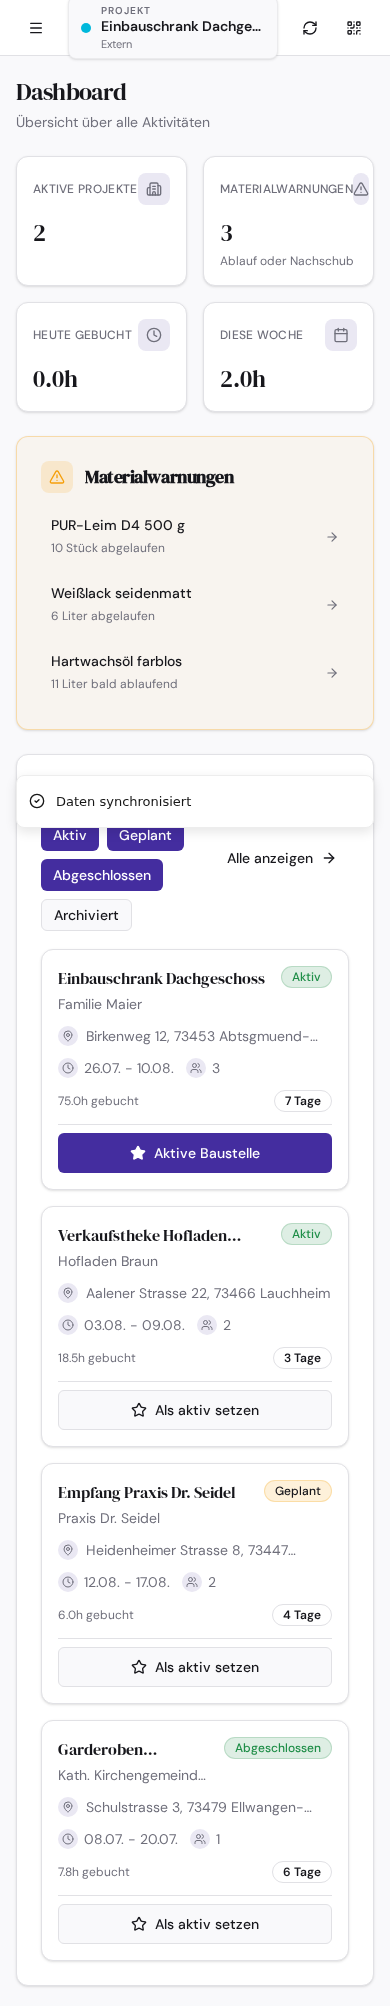
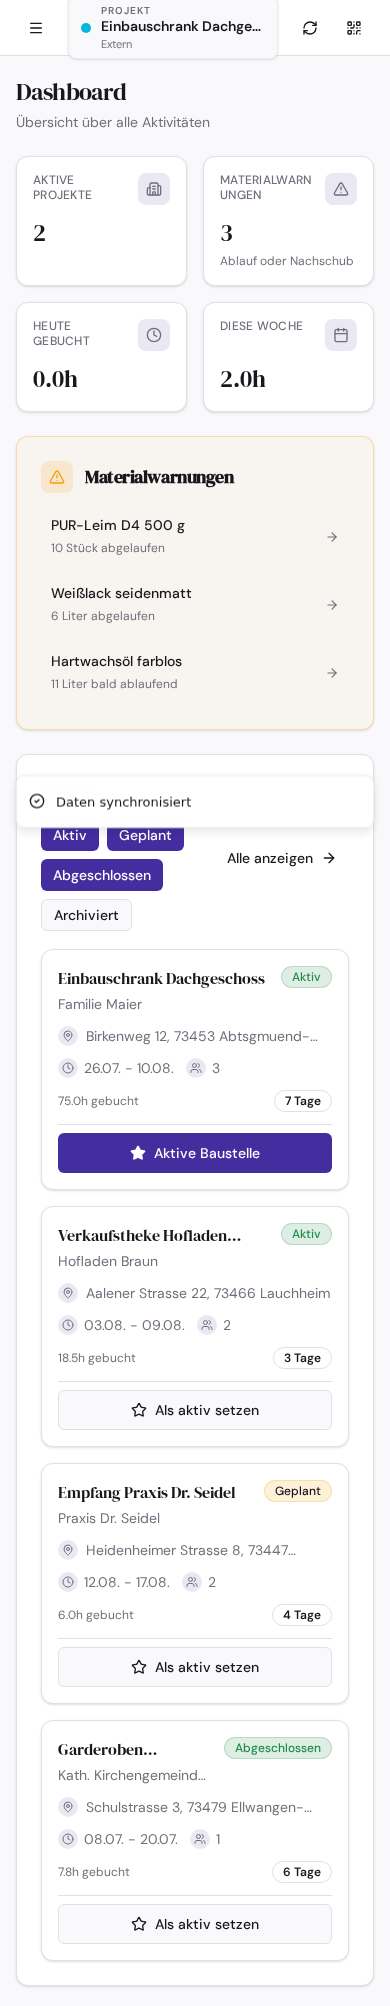
fix(ui): improve mobile calendar readability [sc-cpdhr]

diff --git a/frontend/src/pages/fleet/CalendarView.tsx b/frontend/src/pages/fleet/CalendarView.tsx
@@ -49,7 +49,7 @@ function formatWeekHeader(startDate: Date): string {
 }
 
 const dayNames = ["Mo", "Di", "Mi", "Do", "Fr", "Sa", "So"]
-const mobileCalendarGridColumns = "grid-cols-[88px_repeat(7,minmax(0,1fr))]"
+const mobileCalendarGridColumns = "grid-cols-[180px_repeat(7,minmax(110px,1fr))]"
 const desktopCalendarGridColumns = "sm:grid-cols-[minmax(220px,1.25fr)_repeat(7,minmax(96px,1fr))]"
 
 const reservationStatusStyles = {
@@ -205,13 +205,13 @@ export default function CalendarView({ embedded = false, resourceType, siteId }:
         <div
           data-testid="calendar"
           className={cn(
-            "overflow-hidden bg-card/70 shadow-sm",
+            "overflow-x-auto bg-card/70 shadow-sm",
             embedded
               ? "-mx-4 border-y sm:mx-0 sm:rounded-2xl sm:border"
               : "rounded-2xl border"
           )}
         >
-          <div className="sm:min-w-[980px]">
+          <div className="min-w-[950px]">
             <div
               className={cn(
                 "grid gap-px border-b bg-border/60",

diff --git a/frontend/src/components/dashboard/StatsCard.tsx b/frontend/src/components/dashboard/StatsCard.tsx
@@ -26,9 +26,9 @@ export function StatsCard({
   return (
     <Card className={cn("transition-shadow hover:shadow-md", className)}>
       <CardContent className="p-4">
-        <div className="flex items-center justify-between mb-3">
-          <p className="text-xs font-medium text-muted-foreground uppercase tracking-wide">{title}</p>
-          <div className="h-8 w-8 rounded-lg bg-accent flex items-center justify-center">
+        <div className="flex min-w-0 items-start justify-between gap-2 mb-3">
+          <p className="min-w-0 flex-1 break-words pr-1 text-xs font-medium leading-tight text-muted-foreground uppercase tracking-wide [overflow-wrap:anywhere]">{title}</p>
+          <div className="h-8 w-8 shrink-0 rounded-lg bg-accent flex items-center justify-center">
             <Icon className="h-4 w-4 text-muted-foreground" />
           </div>
         </div>

diff --git a/frontend/src/pages/fleet/CalendarView.test.tsx b/frontend/src/pages/fleet/CalendarView.test.tsx
@@ -233,12 +233,12 @@ describe("CalendarView", () => {
     expect(rerenderedReservationChip).toHaveAttribute("data-resource-color", expectedColor)
   })
 
-  it("uses the compact seven-day mobile grid without horizontal overflow classes", () => {
+  it("uses a readable horizontally scrollable seven-day mobile grid", () => {
     render(<CalendarView embedded />)
 
     expect(screen.getByTestId("calendar")).toHaveClass("-mx-4")
     expect(screen.getByText("Ressource").parentElement).toHaveClass(
-      "grid-cols-[88px_repeat(7,minmax(0,1fr))]"
+      "grid-cols-[180px_repeat(7,minmax(110px,1fr))]"
     )
   })
 
